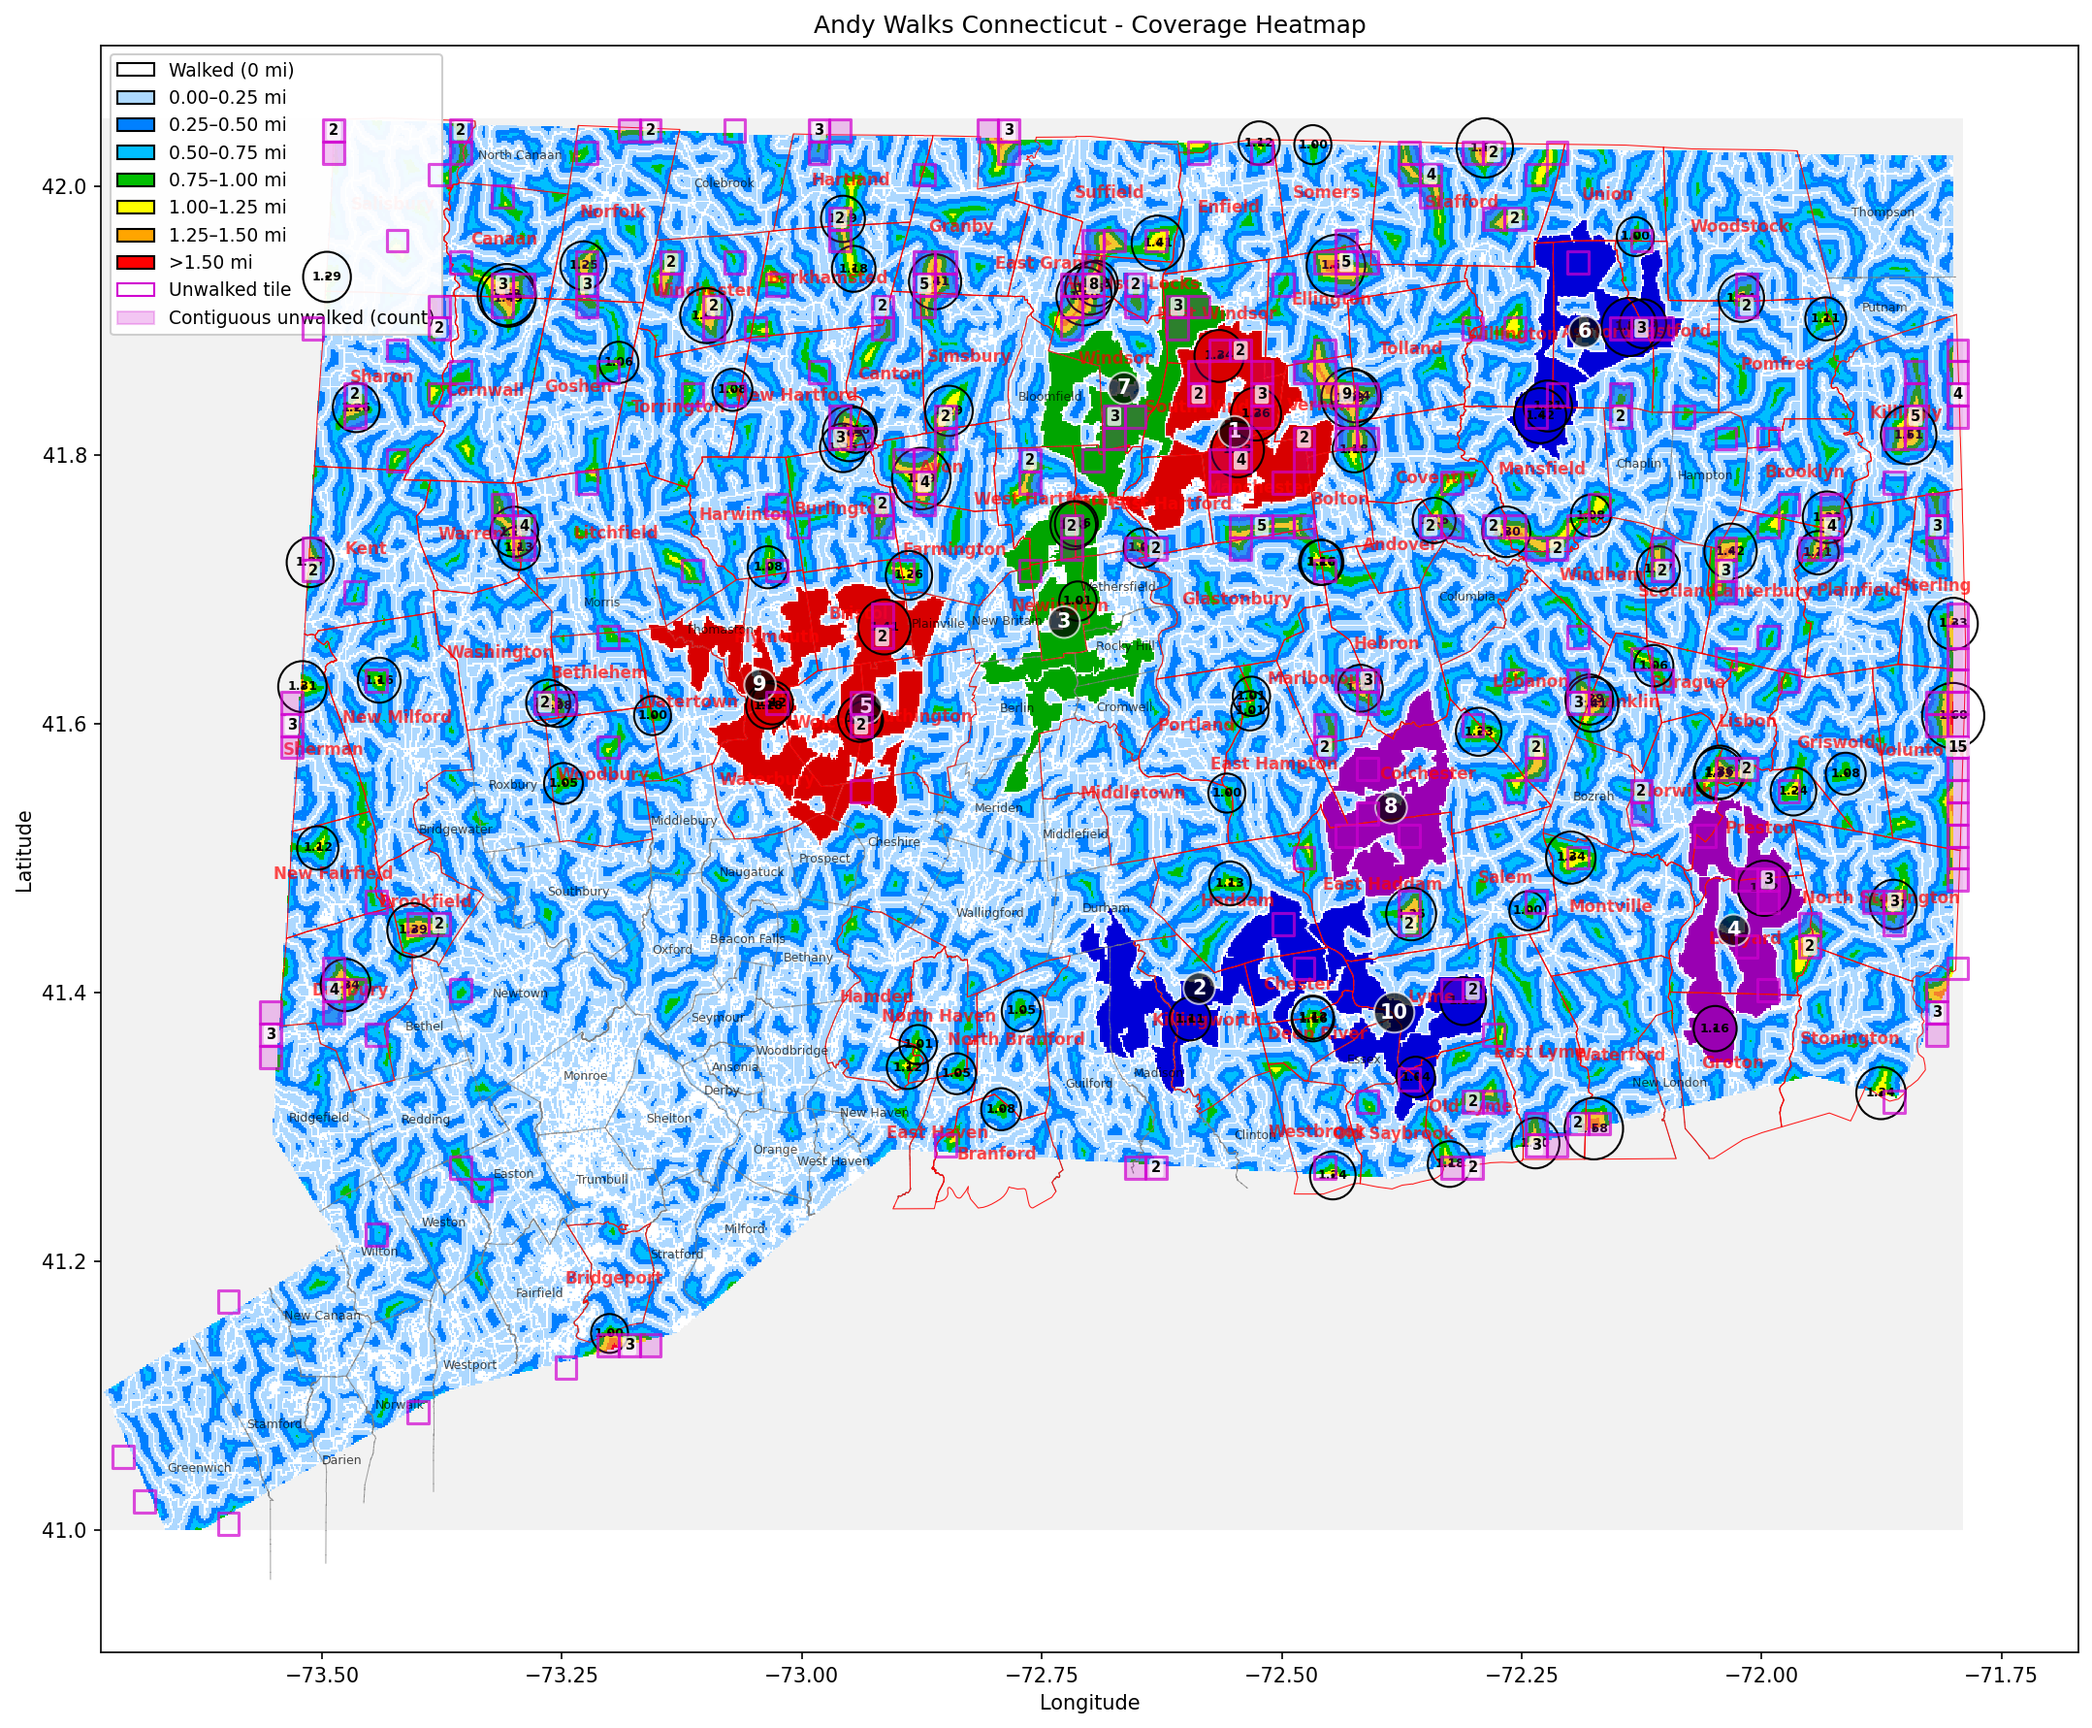
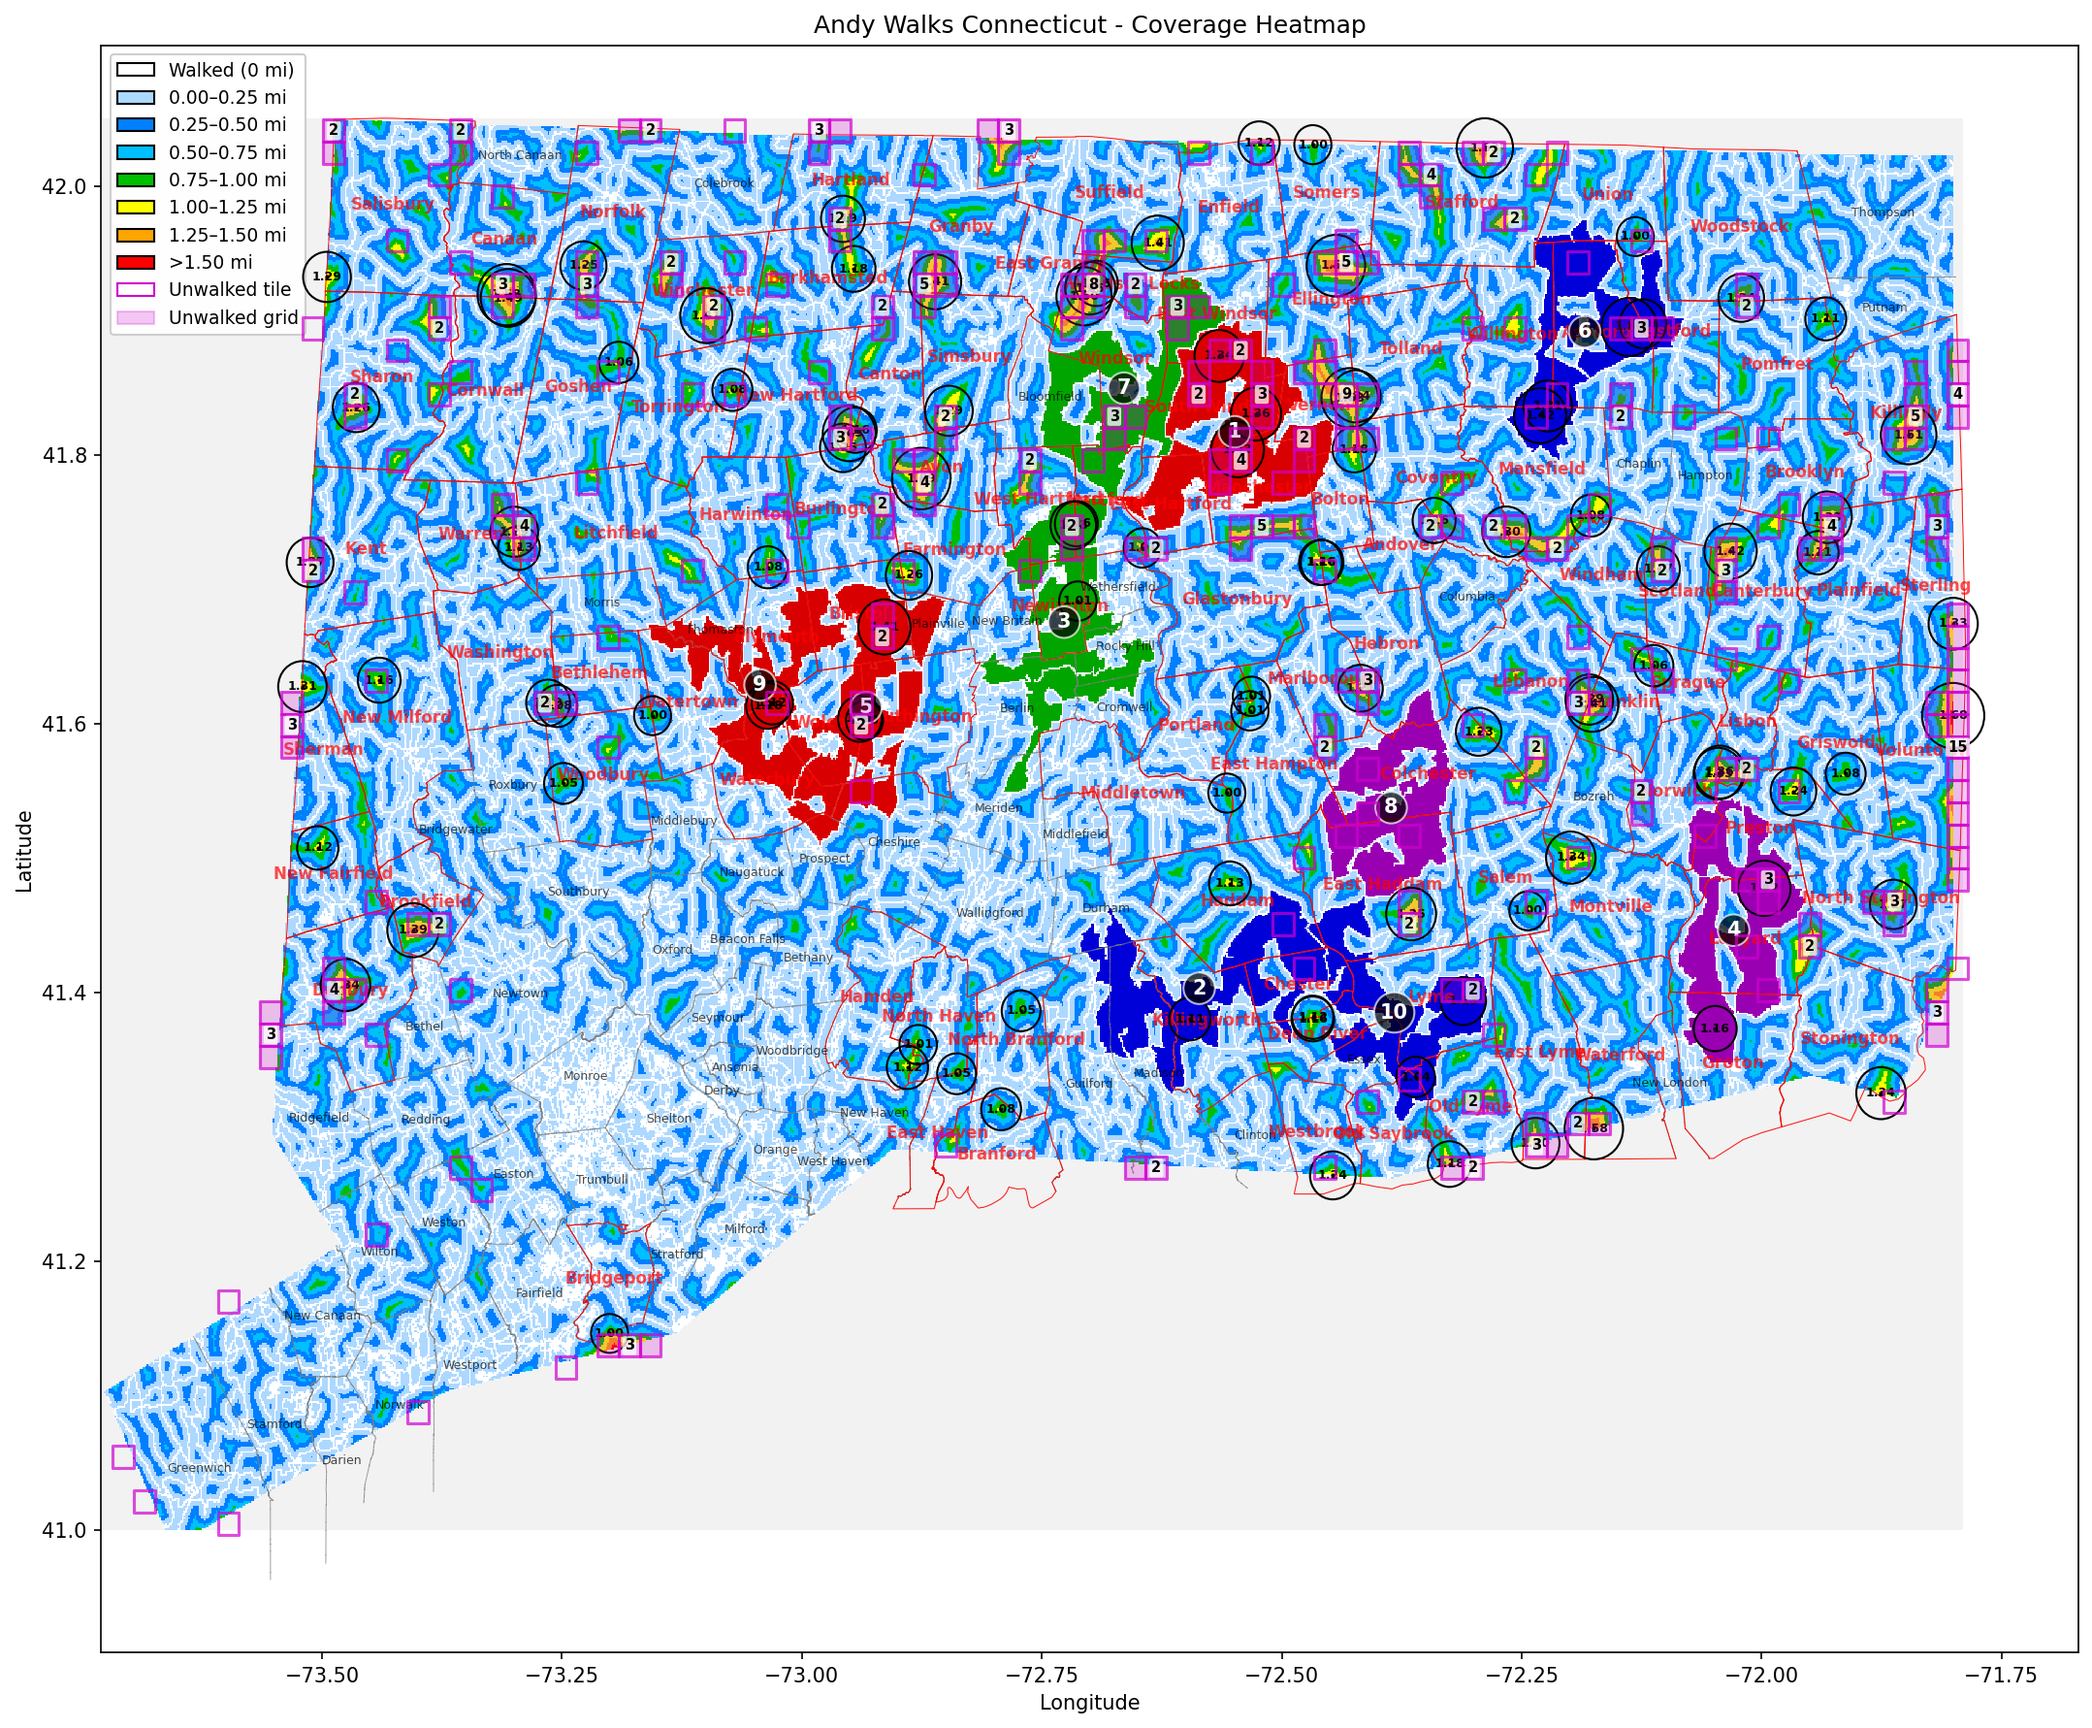
Shorten the squadrat legend labels to "Unwalked tile" and "Unwalked grid"
The cluster handle read "Contiguous unwalked (count)", which made the legend
box wide enough to cover the northwest corner of the state - Salisbury, Canaan
and North Canaan were all hidden behind it. "Unwalked grid" says the same
thing in two words and the box now clears the map entirely.

Regenerated heatmap.png with the new labels. No change to the clustering or
the fills themselves: still 76 contiguous regions of 2+ tiles out of 322
unwalked tiles.

Files:
 M src/plotmap/heatmap.png
 M src/plotmap/squadrats.py

Changed region(s): [[0.1242, 0.0618, 0.2174, 0.2162]]

diff --git a/src/plotmap/squadrats.py b/src/plotmap/squadrats.py
@@ -213,7 +213,7 @@ def draw_squadrat_clusters(ax, regions, z=Z, bbox=None,
     return drawn
 
 
-def cluster_legend_patch(label="Contiguous unwalked (count)"):
+def cluster_legend_patch(label="Unwalked grid"):
     """A legend handle matching the cluster fill style."""
     return Patch(facecolor=CLUSTER_FILL_COLOR, alpha=CLUSTER_FILL_ALPHA,
                  edgecolor=SQUADRAT_COLOR, label=label)
